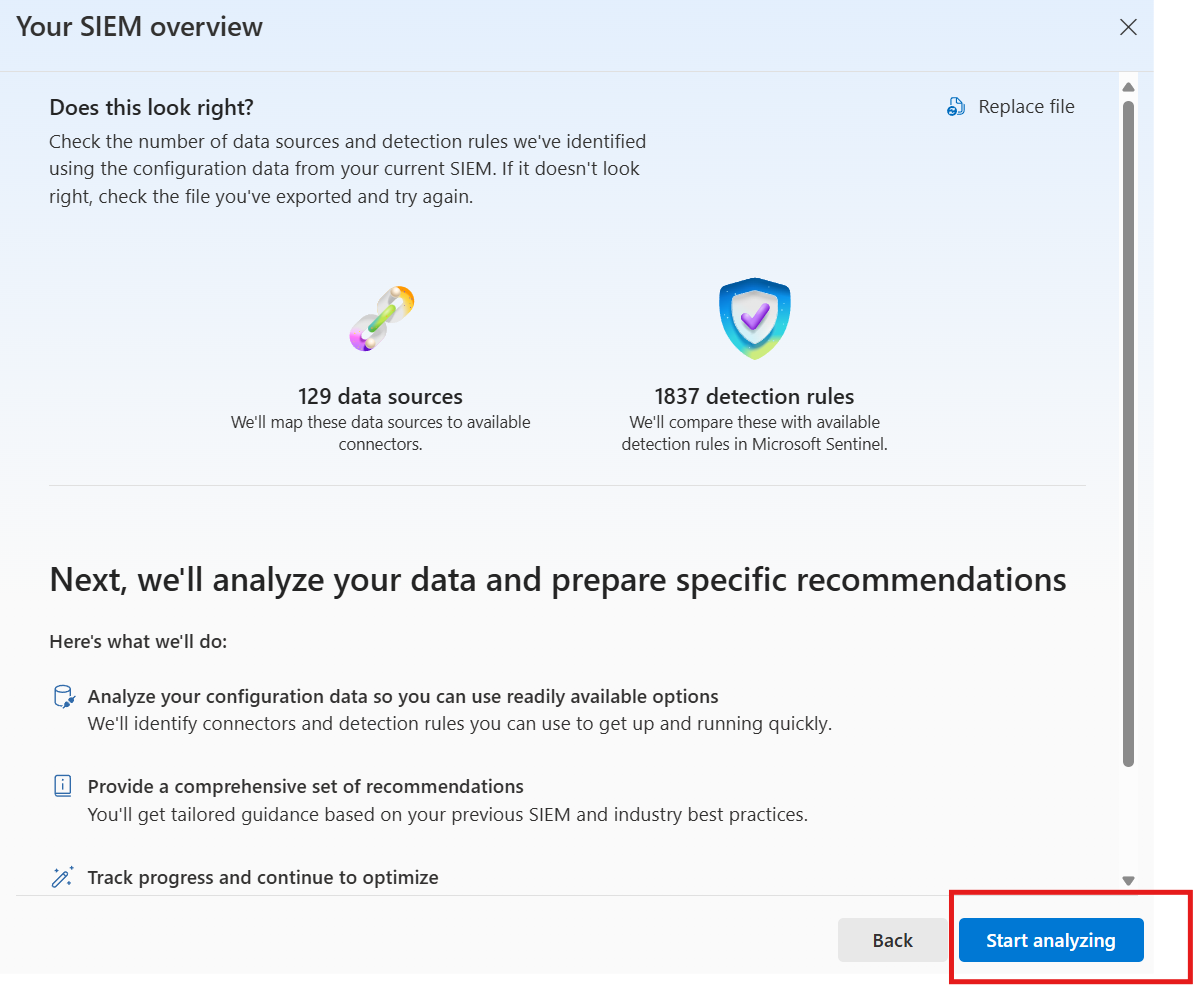
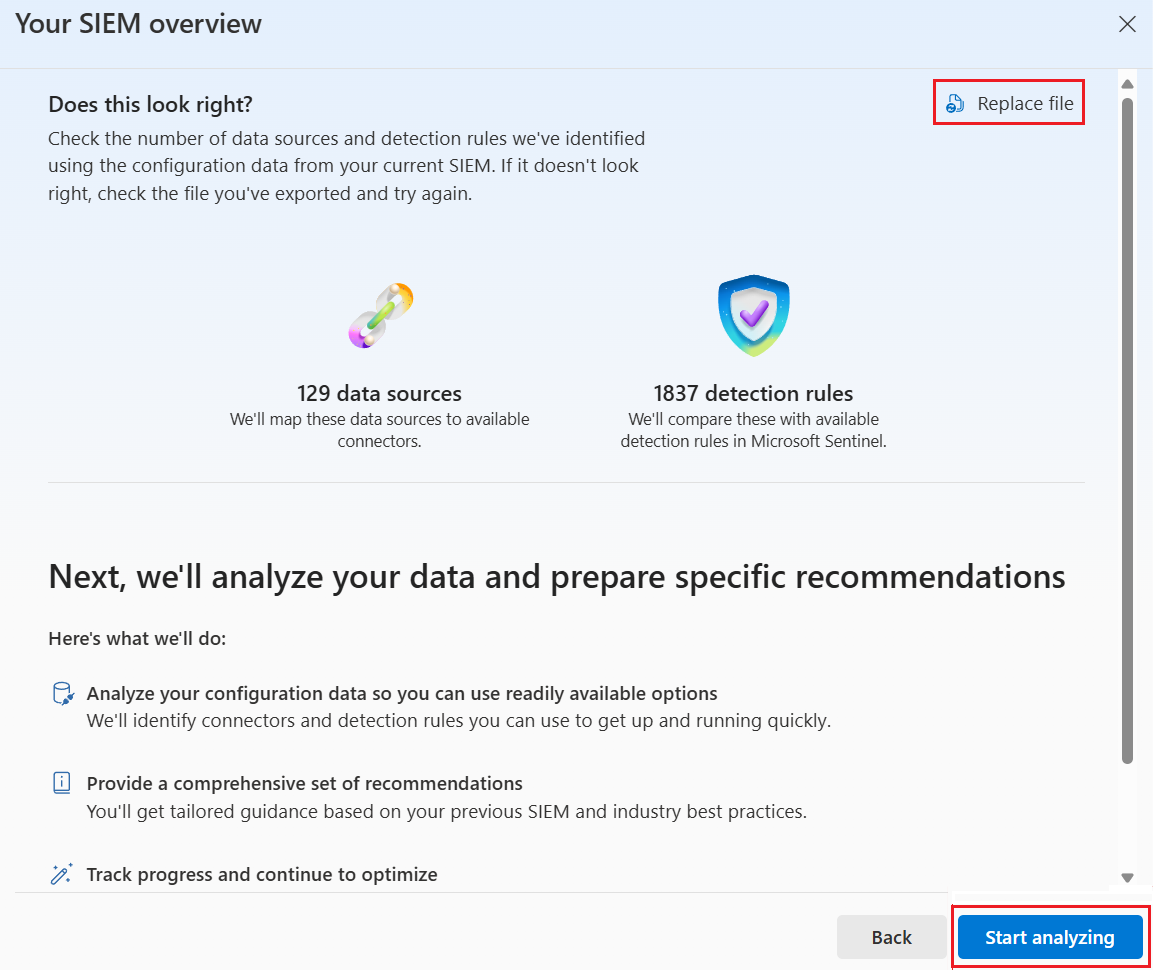
migration tool - margaret

diff --git a/articles/sentinel/siem-migration.md b/articles/sentinel/siem-migration.md
@@ -28,8 +28,6 @@ The SIEM Migration experience includes the following features:
 
 ## Prerequisites
 
-### Microsoft Sentinel requirements
-
 - Microsoft Sentinel in Microsoft Defender portal
 - At least Contributor permissions in the Microsoft Sentinel workspace
 - [Security Copilot](https://securitycopilot.microsoft.com/) enabled in your tenant with at least a workspace operator role assigned
@@ -37,7 +35,7 @@ The SIEM Migration experience includes the following features:
 > [!NOTE]
 > Though you need [Security Copilot](https://securitycopilot.microsoft.com/) enabled in your tenant, it doesn't consume any SCUs so it doesn't incur additional costs.
 
-## Export rules from your current SIEM
+## Export detection rules from your current SIEM
 
 In the **Search and Reporting** app in Splunk, run the following query:
 
@@ -65,24 +63,27 @@ After exporting the rules,
 
 1. Go to `security.microsoft.com`.
 
-1. From the **SOC Optimization** blade
-1. , select **Set up your new SIEM**.
+1. From the **SOC Optimization** blade, select **Set up your new SIEM**.
 
     :::image type="content" source="./media/siem-migration/set-up-new-siem.png" alt-text="Screenshot of the Setup your new SIEM option in the top right corner of the SOC Optimization screen.":::
 
-1. Select **migrate from current SIEM**:
+1. Select **Migrate from current SIEM**:
 
     :::image type="content" source="./media/siem-migration/migrate.png" alt-text="Screenshot of the Migrate from current SIEM option.":::
 
-1. Select *Splunk* or *QRadar* depending on your SIEM type and upload the [rules export](#export-rules-from-your-current-siem). Select **Next**.
+1. Select **Migrate from Splunk**.
 
     :::image type="content" source="./media/siem-migration/other-siem.png" alt-text="Screenshot of the Select Splunk or QRadar option.":::
 
-    The migration tool analyzes the export and identifies the number of data sources and detection rules in the file you provided. Use this information to confirm that you have the right export. If it doesn't look correct, select **Replace file** from the top right corner and upload a new export. If it's looks good, select **Next**.
+1. Upload the configuration data that [you exported from your current SIEM](#export-detection-rules-from-your-current-siem) and select **Next**.
+
+    :::image type="content" source="./media/siem-migration/upload-data.png" alt-text="Screenshot of the Upload file button to upload the exported configuration data.":::
+
+    The migration tool analyzes the export and identifies the number of data sources and detection rules in the file you provided. Use this information to confirm that you have the right export. If it doesn't look correct, select **Replace file** from the top right corner and upload a new export.
 
     :::image type="content" source="./media/siem-migration/confirm-siem.png" alt-text="Screenshot of the confirmation screen showing the number of data sources and detection rules.":::
 
-1. Once the correct file is uploaded, the migration tool maps the detection rules to Microsoft Sentinel data sources and detection rules.
+1. When the correct file is uploaded, select **Start analyzing**. The migration tool maps the detection rules to Microsoft Sentinel data sources and detection rules. If there are no recommendations in the workspace, recommendations will be created.
 
     :::image type="content" source="./media/siem-migration/getting-ready.png" alt-text="Screenshot of the migration tool getting ready to analyze the rules.":::
 
@@ -90,27 +91,45 @@ After exporting the rules,
 
     :::image type="content" source="./media/siem-migration/setup-analysis-status.png" alt-text="Screenshot of the SIEM Set-up analysis status showing the progress of the analysis.":::
 
+    This page doesn't refresh automatically. To see the latest status, close and reopen the page.
     When the analysis completes, the migration tool generates use-case-based recommendations, grouped by Content Hub solutions. The recommendations appear under **SIEM Setup**.
 
     :::image type="content" source="./media/siem-migration/recommendations.png" alt-text="A screenshot of recommendations generated by the migration tool.":::
+
+    The analysis is complete when all three check marks are green. If the three checkmarks are green but there are no recommendations, it means that no matches were found for your rules.
+    When analysis is complete, go to **SIEM Setup**to see the recommendations. You can also download a detailed report of the analysis. The report contains a detailed analysis of recommended migration jobs, including Splunk rules that we didn't find good solution for, not detected, not applicable etc.
 
 1. Select one of the recommendation cards to view the data sources and rules mapped.
 
     :::image type="content" source="./media/siem-migration/recommendation-card.png" alt-text="A screenshot of a recommendation card.":::
 
-    The tool matches the Splunk or QRadar rules to out-of-box Microsoft Sentinel data connectors and out-of-box Microsoft Sentinel detection rules as shown in the next screenshots:
+    The tool matches the Splunk or QRadar rules to out-of-box Microsoft Sentinel data connectors and out-of-box Microsoft Sentinel detection rules.
+    The *connectors* tab shows the data connectors matched to the rules from your SIEM and the status (connected or not disconnected). If you want to use a connector that's not connected, connect from the connector tab. If a connector isn't installed, go to the Content hub and install the solution that contains the connector you want to use.
 
     :::image type="content" source="./media/siem-migration/connectors.png" alt-text="Screenshot of Microsoft Sentinel data connectors matched to Splunk or QRadar rules.":::
 
-    :::image type="content" source="./media/siem-migration/detection.png" alt-text="Screenshot of Microsoft Sentinel detection rules matched to Splunk or QRadar rules.":::
+    The *detections* tab shows the following information:
 
-   To see more information about the connections, select **View full details** from the side panel.
+    - The detection rules matched to the rules from your SIEM. (1)
+    - Recommendations from the SIEM migration tool. (2)
+    - The current Splunk detection rule from your uploaded file. (3)
+    - The status of the detection rule in Microsoft Sentinel. (4) The status can be:
+        - *Enabled*: The detection rule is created from the rule template, enabled and active (from a previous action)
+        - *Disabled*: The detection rule is installed from the Content Hub but not enabled in the Sentinel workspace
+        - *Not in use*: The detection rule was installed from Content Hub and is available as a template to be enabled
+        - *Not installed*: The detection rule wasn't installed from the the Content Hub
+    - The required connectors that need to be configured to bring the logs required for the recommended detection rule. (5) If a required connector isn't available, there's a side panel with a wizard to install it from the Content Hub. If all required connectors are connected, a green check mark appears.
+
+    :::image type="content" source="./media/siem-migration/detection.png" alt-text="Screenshot of Microsoft Sentinel detection rules matched to Splunk or QRadar rules.":::
 
 1. Select the rule. This action opens the rules details side panel, where you can view the rules template details.
 
-    Enable connection: {If the data connector isn't installed and configured to stream logs, you can enable it from here by selecting **Enable connection**.}
+    :::image type="content" source="./media/siem-migration/rule-details.png" alt-text="Screenshot of the rule details side panel.":::
 
-    At the bottom of the panel, select **More actions** > **Compare with origin**.
+- If the associated data connector is installed and configured, select **Enable detection** to enable the detection rule.
+- You can enable several rules at once by selecting the check boxes next to each rule you want to enable
+- Select **More actions** > **Create manually** to open the analytics rules wizard so you can review and edit the rule before enabling it.
+- If the rule is already enabled, select **Edit** to open the analytics rules wizard to review and edit the rule.
 
     :::image type="content" source="./media/siem-migration/more-actions.png" alt-text="Screenshot of the More actions button in the rules wizard.":::
 
@@ -118,47 +137,22 @@ After exporting the rules,
 
     :::image type="content" source="./media/siem-migration/compare-rules.png" alt-text="Screenshot of the comparison between Splunk SPL rule and Microsoft Sentinel KQL.":::
 
+> [!TIP]
+> Instead of creating the rule manually from scratch, it can be simpler to enable the rule from the template and then edit it as needed.
+
 If the data connector isn't installed and configured to stream logs, *Enable detection* is disabled.
 
-The SIEM migration tool doesn't explicitly install any connectors or enable detection rules
+The SIEM migration tool doesn't explicitly install any connectors or enable detection rules.
 
 ## Limitations
 
 - The migration tool maps the rules export to out-of-the-box Microsoft Sentinel data connectors and detection rules.
 
-Before step 5?
-If WS has no recommendations, recommendations will be created (getting recs ready etc    )
-If has recommendations
 
-Setupanalysis status:
+Setup analysis status:
 Select ws for analysis
- Prepare... will be chacked when done
-3 checkmarks means all recommedations were created. If no recommendations seen, nothing as found migration didn't fail, but there are no matches. 
-Pie chart how many detections uploaded how many matched not matched not applicable
-Open to see progress. Doesn't refresh automatically. Close and open to refresh
-When done, go to SIEM setup to see recommendations
-
-Download report: Also includes what we didn't find good solution for. detailedanalysis of migration rec jobs. Inlcudinv non aplicable not detectd etc.
-
-Detections tab #7
-Current detection (second column From siem
-Rec detection
-Status: Not installed, not in use (intalled fro content hub but jsut template - rule not created, enabled, disabled)
-Required connectors: connectors needed for rule to work. Usuually one wometimes more. If all connected, green check
-If connector not connected and wamt to use, go to connectors tab and select connector and connect from connector page
-
-If connector not downloaded from content hub(not installed), go to content hub and install the solution that contains the connector
 
 #8 compare with origin 38 minutes
 
-Can enable muliple ruels at once by checking boxes 
-
-If already enabled, Edit button instead of enable detection
-
-Tip - 
-Enable from template and then edit as needed
-
-
-Rule not in use: More actions button allows to create rule manally from template
 
 View rule in content hub: Opens content hub page then decide if you want to install it.
